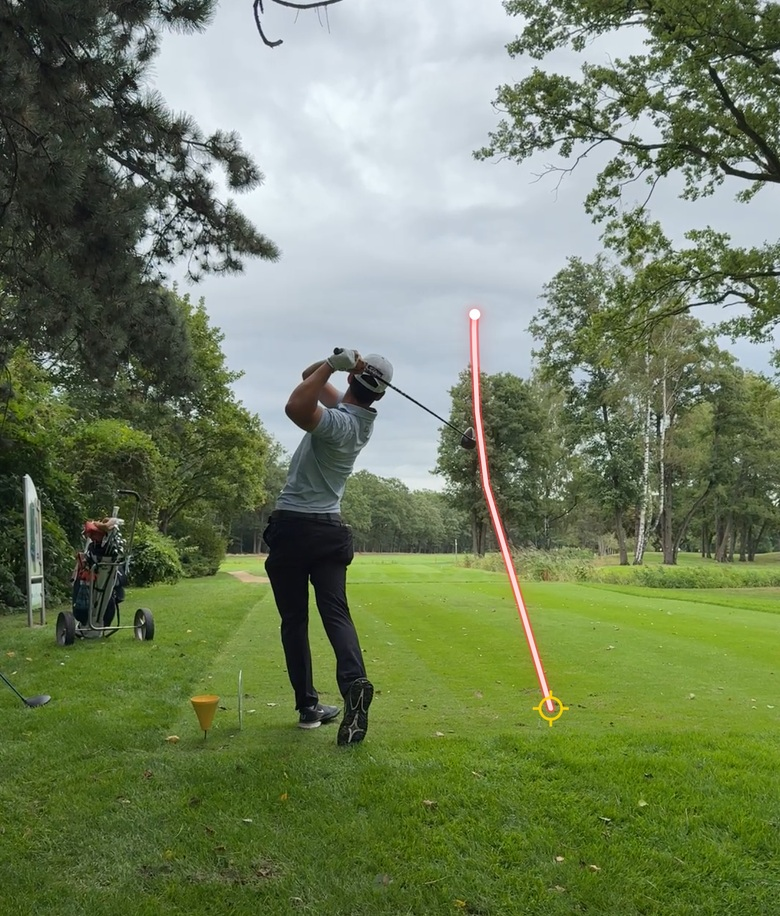
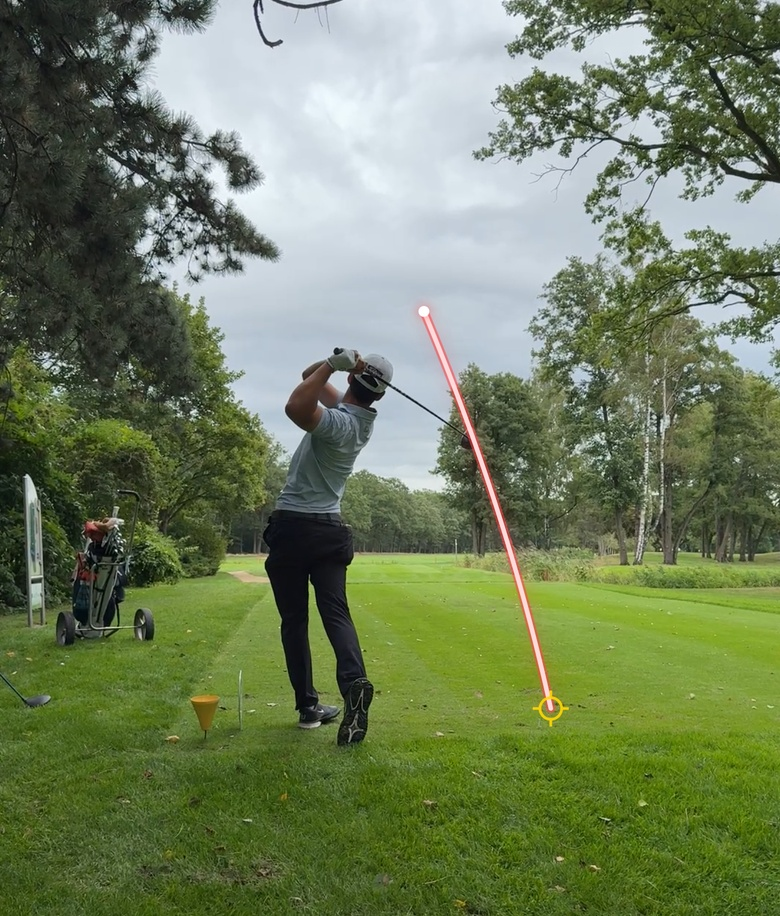
Tracer pictures as Christian sketched them: an even curve toward the fairway
The three tracer pictures (Swing player card, Swing camera card, Swing Video)
now show the flight as one even curve from the ball toward the middle of the
fairway, drawn in the app's tracer style along Christian's sketch (03.11.2026).
The third picture uses Ben's clip Nr. 7 instead of Nr. 25. Caption and alt
texts no longer call the line "computed".

Changed region(s): [[0.5231, 0.3362, 0.7077, 0.7642]]

diff --git a/index.html b/index.html
@@ -280,8 +280,8 @@
                             <figcaption>Swing Compare: two swings, in step at the top</figcaption>
                         </figure>
                         <figure style="--ar:0.8515">
-                            <img src="images/features-tracer-detail.jpg?v=5" alt="Swing video with the ball tracer: a golfer in the finish on a golf-course tee, a computed flight drawn as a red line that leaves the ball toward the fairway and climbs into the sky" width="780" height="916" loading="lazy" decoding="async"/>
-                            <figcaption>The Tracer tool: a driver off the tee, the line is the computed flight</figcaption>
+                            <img src="images/features-tracer-detail.jpg?v=6" alt="Swing video with the ball tracer: a golfer in the finish on a golf-course tee, the ball flight drawn as a red line that leaves the ball toward the fairway and climbs into the sky" width="780" height="916" loading="lazy" decoding="async"/>
+                            <figcaption>The Tracer tool: a driver off the tee, traced toward the fairway</figcaption>
                         </figure>
                     </div>
                 </article>
@@ -372,7 +372,7 @@
                     </div>
                     <div class="phone-pair hl-media">
                         <figure>
-                            <img src="images/swing-tracer.jpg?v=5" alt="TrajectoryX swing player with the ball tracer: a computed ball flight drawn over a driver swing on the golf course, the Tracer tool open, and the positions Address, Top, Impact and End as tabs over the timeline below" width="780" height="1696" loading="lazy" decoding="async"/>
+                            <img src="images/swing-tracer.jpg?v=6" alt="TrajectoryX swing player with the ball tracer: the ball flight drawn over a driver swing on the golf course, the Tracer tool open, and the positions Address, Top, Impact and End as tabs over the timeline below" width="780" height="1696" loading="lazy" decoding="async"/>
                             <figcaption>Hit the shot, get the clip — here with the tracer</figcaption>
                         </figure>
                     </div>
@@ -945,7 +945,7 @@
                     <figcaption>Auto-detected: Start · Top · Impact · End</figcaption>
                 </figure>
                 <figure class="phone" style="flex:1 1 200px; max-width:260px;">
-                    <img src="images/swing-tracer-2.jpg?v=1" alt="TrajectoryX swing player with the ball tracer: a golfer in the finish on a tee between two rows of trees, the computed flight of the drive drawn from the ball up into the sky, the Tracer tool open, and the positions Address, Top, Impact and End as tabs over the timeline below" width="780" height="1696" loading="lazy" decoding="async"/>
+                    <img src="images/swing-tracer-2.jpg?v=2" alt="TrajectoryX swing player with the ball tracer: a golfer in the finish on a tee, the fairway ahead between two rows of trees, the flight of the drive drawn from the ball up toward the fairway, the Tracer tool open, and the positions Address, Top, Impact and End as tabs over the timeline below" width="780" height="1696" loading="lazy" decoding="async"/>
                     <figcaption>Ball tracer in your own video</figcaption>
                 </figure>
                 <figure class="phone" style="flex:1 1 200px; max-width:260px;">
